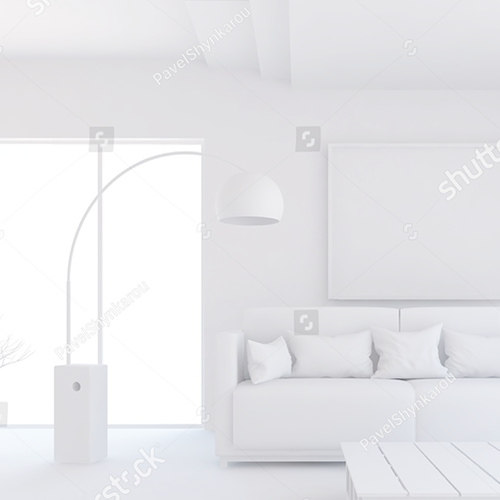
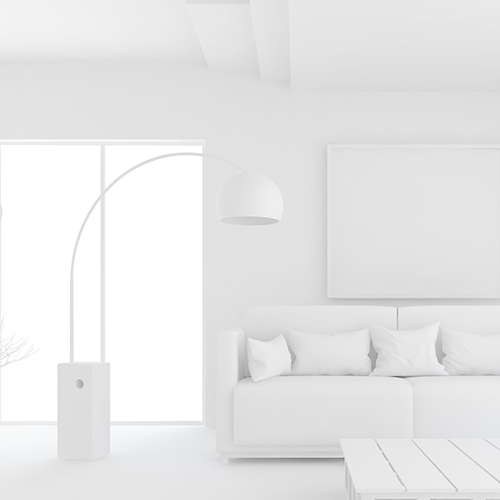
service page translation

diff --git a/krausberg_website/templates/service-6.html b/krausberg_website/templates/service-6.html
@@ -46,22 +46,11 @@
             <div class="row service-text-row">
                 <div class="col-md-12">
                     <p class="service-heading light-green">{% trans "Kulutarvikud (tellimine, asendamine)" %}</p>
-                    <strong class="service-text dark-green">{% trans "Krausberg pakub teenust erinevatel müügipindadel kõigis eesti suurimates kaubanduskeskustes" %}.</strong>
-                    <p class="service-text dark-green">{% trans "Müügipindade puhastustööde hulka kuuluvad tüüpiliselt" %}: </p>
-                    <ul class="service-text dark-green">
-                        <li>{% trans "Riiulitelt tolmu pühkimine" %}</li>
-                        <li>{% trans "Toodetelt tolmu pühkimine" %}</li>
-                        <li>{% trans "Dekoratiivelementidelt tolmu pühkimine" %}</li>
-                        <li>{% trans "Muudelt horisontaalpindadelt tolmu pühkimine" %}</li>
-                        <li>{% trans "Klaaspindade kohtpuhastus" %}</li>
-                        <li>{% trans "Põrandate puhastus masinaga või käsitsi olenevalt mahust" %}</li>
-                    </ul>
-                    <p class="service-text dark-green">{% trans "Vajadusel lisatööd" %}</p>
-
+                    {% trans "teenus kulutarvikud (tellimine, asendamine) tekst" %}
                 </div>
             </div>
         </div>
-        <div class="col-md-6" style="background-image: url('{% static 'img/Teenuse_pilt_1.png'%}');">
+        <div class="col-md-6" style="background-image: url('{% static 'img/1_13- kulutarvikud.jpg'%}'); background-size: contain; background-repeat: no-repeat;">
         </div>
     </div>
 </div>

diff --git a/krausberg_website/templates/service-3.html b/krausberg_website/templates/service-3.html
@@ -46,22 +46,11 @@
             <div class="row service-text-row">
                 <div class="col-md-12">
                     <p class="service-heading light-green">{% trans "Koridoride, trepikodade puhastus" %}</p>
-                    <strong class="service-text dark-green">{% trans "Krausberg pakub teenust erinevatel müügipindadel kõigis eesti suurimates kaubanduskeskustes" %}.</strong>
-                    <p class="service-text dark-green">{% trans "Müügipindade puhastustööde hulka kuuluvad tüüpiliselt" %}: </p>
-                    <ul class="service-text dark-green">
-                        <li>{% trans "Riiulitelt tolmu pühkimine" %}</li>
-                        <li>{% trans "Toodetelt tolmu pühkimine" %}</li>
-                        <li>{% trans "Dekoratiivelementidelt tolmu pühkimine" %}</li>
-                        <li>{% trans "Muudelt horisontaalpindadelt tolmu pühkimine" %}</li>
-                        <li>{% trans "Klaaspindade kohtpuhastus" %}</li>
-                        <li>{% trans "Põrandate puhastus masinaga või käsitsi olenevalt mahust" %}</li>
-                    </ul>
-                    <p class="service-text dark-green">{% trans "Vajadusel lisatööd" %}</p>
-
+                    {% trans "teenus koridoride, trepikodade puhastus tekst" %}
                 </div>
             </div>
         </div>
-        <div class="col-md-6" style="background-image: url('{% static 'img/Teenuse_pilt_1.png'%}');">
+        <div class="col-md-6" style="background-image: url('{% static 'img/1_02-trepikodade puhastus.jpg'%}'); background-size: contain; background-repeat: no-repeat;">
         </div>
     </div>
 </div>

diff --git a/krausberg_website/templates/service-10.html b/krausberg_website/templates/service-10.html
@@ -46,22 +46,11 @@
             <div class="row service-text-row">
                 <div class="col-md-12">
                     <p class="service-heading light-green">{% trans "Pehme mööbli süvapuhastus" %}</p>
-                    <strong class="service-text dark-green">{% trans "Krausberg pakub teenust erinevatel müügipindadel kõigis eesti suurimates kaubanduskeskustes" %}.</strong>
-                    <p class="service-text dark-green">{% trans "Müügipindade puhastustööde hulka kuuluvad tüüpiliselt" %}: </p>
-                    <ul class="service-text dark-green">
-                        <li>{% trans "Riiulitelt tolmu pühkimine" %}</li>
-                        <li>{% trans "Toodetelt tolmu pühkimine" %}</li>
-                        <li>{% trans "Dekoratiivelementidelt tolmu pühkimine" %}</li>
-                        <li>{% trans "Muudelt horisontaalpindadelt tolmu pühkimine" %}</li>
-                        <li>{% trans "Klaaspindade kohtpuhastus" %}</li>
-                        <li>{% trans "Põrandate puhastus masinaga või käsitsi olenevalt mahust" %}</li>
-                    </ul>
-                    <p class="service-text dark-green">{% trans "Vajadusel lisatööd" %}</p>
-
+                    {% trans "teenus pehme mööbli süvapuhastus tekst" %}
                 </div>
             </div>
         </div>
-        <div class="col-md-6" style="background-image: url('{% static 'img/Teenuse_pilt_1.png'%}');">
+        <div class="col-md-6" style="background-image: url('{% static 'img/1_06-pehme mööbli puhastus.jpg'%}'); background-size: contain; background-repeat: no-repeat;">
         </div>
     </div>
 </div>

diff --git a/krausberg_website/templates/service-4.html b/krausberg_website/templates/service-4.html
@@ -46,22 +46,11 @@
             <div class="row service-text-row">
                 <div class="col-md-12">
                     <p class="service-heading light-green">{% trans "Müügipindade puhastus" %}</p>
-                    <strong class="service-text dark-green">{% trans "Krausberg pakub teenust erinevatel müügipindadel kõigis eesti suurimates kaubanduskeskustes" %}.</strong>
-                    <p class="service-text dark-green">{% trans "Müügipindade puhastustööde hulka kuuluvad tüüpiliselt" %}: </p>
-                    <ul class="service-text dark-green">
-                        <li>{% trans "Riiulitelt tolmu pühkimine" %}</li>
-                        <li>{% trans "Toodetelt tolmu pühkimine" %}</li>
-                        <li>{% trans "Dekoratiivelementidelt tolmu pühkimine" %}</li>
-                        <li>{% trans "Muudelt horisontaalpindadelt tolmu pühkimine" %}</li>
-                        <li>{% trans "Klaaspindade kohtpuhastus" %}</li>
-                        <li>{% trans "Põrandate puhastus masinaga või käsitsi olenevalt mahust" %}</li>
-                    </ul>
-                    <p class="service-text dark-green">{% trans "Vajadusel lisatööd" %}</p>
-
+                    {% trans "teenus müügipindade puhastus tekst" %}
                 </div>
             </div>
         </div>
-        <div class="col-md-6" style="background-image: url('{% static 'img/Teenuse_pilt_1.png'%}');">
+        <div class="col-md-6" style="background-image: url('{% static 'img/1_15_müügipindande koristus.jpg'%}'); background-size: contain; background-repeat: no-repeat;">
         </div>
     </div>
 </div>

diff --git a/krausberg_website/templates/service-13.html b/krausberg_website/templates/service-13.html
@@ -46,22 +46,11 @@
             <div class="row service-text-row">
                 <div class="col-md-12">
                     <p class="service-heading light-green">{% trans "Ehistusjärgne puhastus" %}</p>
-                    <strong class="service-text dark-green">{% trans "Krausberg pakub teenust erinevatel müügipindadel kõigis eesti suurimates kaubanduskeskustes" %}.</strong>
-                    <p class="service-text dark-green">{% trans "Müügipindade puhastustööde hulka kuuluvad tüüpiliselt" %}: </p>
-                    <ul class="service-text dark-green">
-                        <li>{% trans "Riiulitelt tolmu pühkimine" %}</li>
-                        <li>{% trans "Toodetelt tolmu pühkimine" %}</li>
-                        <li>{% trans "Dekoratiivelementidelt tolmu pühkimine" %}</li>
-                        <li>{% trans "Muudelt horisontaalpindadelt tolmu pühkimine" %}</li>
-                        <li>{% trans "Klaaspindade kohtpuhastus" %}</li>
-                        <li>{% trans "Põrandate puhastus masinaga või käsitsi olenevalt mahust" %}</li>
-                    </ul>
-                    <p class="service-text dark-green">{% trans "Vajadusel lisatööd" %}</p>
-
+                    {% trans "teenus ehistusjärgne puhastus tekst" %}
                 </div>
             </div>
         </div>
-        <div class="col-md-6" style="background-image: url('{% static 'img/Teenuse_pilt_1.png'%}');">
+        <div class="col-md-6" style="background-image: url('{% static 'img/1_16-ehitusjärgne koristus.jpg'%}'); background-size: contain; background-repeat: no-repeat;">
         </div>
     </div>
 </div>

diff --git a/krausberg_website/templates/service-16.html b/krausberg_website/templates/service-16.html
@@ -46,22 +46,11 @@
             <div class="row service-text-row">
                 <div class="col-md-12">
                     <p class="service-heading light-green">{% trans "Talvine välikoristus" %}</p>
-                    <strong class="service-text dark-green">{% trans "Krausberg pakub teenust erinevatel müügipindadel kõigis eesti suurimates kaubanduskeskustes" %}.</strong>
-                    <p class="service-text dark-green">{% trans "Müügipindade puhastustööde hulka kuuluvad tüüpiliselt" %}: </p>
-                    <ul class="service-text dark-green">
-                        <li>{% trans "Riiulitelt tolmu pühkimine" %}</li>
-                        <li>{% trans "Toodetelt tolmu pühkimine" %}</li>
-                        <li>{% trans "Dekoratiivelementidelt tolmu pühkimine" %}</li>
-                        <li>{% trans "Muudelt horisontaalpindadelt tolmu pühkimine" %}</li>
-                        <li>{% trans "Klaaspindade kohtpuhastus" %}</li>
-                        <li>{% trans "Põrandate puhastus masinaga või käsitsi olenevalt mahust" %}</li>
-                    </ul>
-                    <p class="service-text dark-green">{% trans "Vajadusel lisatööd" %}</p>
-
+                    {% trans "teenus talvine välikoristus tekst" %}
                 </div>
             </div>
         </div>
-        <div class="col-md-6" style="background-image: url('{% static 'img/Teenuse_pilt_1.png'%}');">
+        <div class="col-md-6" style="background-image: url('{% static 'img/1-09- tavine välikoristus.jpg'%}'); background-size: contain; background-repeat: no-repeat;">
         </div>
     </div>
 </div>

diff --git a/krausberg_website/templates/service-14.html b/krausberg_website/templates/service-14.html
@@ -46,22 +46,11 @@
             <div class="row service-text-row">
                 <div class="col-md-12">
                     <p class="service-heading light-green">{% trans "Graffiti eemaldamine" %}</p>
-                    <strong class="service-text dark-green">{% trans "Krausberg pakub teenust erinevatel müügipindadel kõigis eesti suurimates kaubanduskeskustes" %}.</strong>
-                    <p class="service-text dark-green">{% trans "Müügipindade puhastustööde hulka kuuluvad tüüpiliselt" %}: </p>
-                    <ul class="service-text dark-green">
-                        <li>{% trans "Riiulitelt tolmu pühkimine" %}</li>
-                        <li>{% trans "Toodetelt tolmu pühkimine" %}</li>
-                        <li>{% trans "Dekoratiivelementidelt tolmu pühkimine" %}</li>
-                        <li>{% trans "Muudelt horisontaalpindadelt tolmu pühkimine" %}</li>
-                        <li>{% trans "Klaaspindade kohtpuhastus" %}</li>
-                        <li>{% trans "Põrandate puhastus masinaga või käsitsi olenevalt mahust" %}</li>
-                    </ul>
-                    <p class="service-text dark-green">{% trans "Vajadusel lisatööd" %}</p>
-
+                    {% trans "teenus graffiti eemaldamine tekst" %}
                 </div>
             </div>
         </div>
-        <div class="col-md-6" style="background-image: url('{% static 'img/Teenuse_pilt_1.png'%}');">
+        <div class="col-md-6" style="background-image: url('{% static 'img/1-05- graffiti eemaldamine.jpg'%}'); background-size: contain; background-repeat: no-repeat;">
         </div>
     </div>
 </div>

diff --git a/krausberg_website/templates/service-15.html b/krausberg_website/templates/service-15.html
@@ -46,22 +46,11 @@
             <div class="row service-text-row">
                 <div class="col-md-12">
                     <p class="service-heading light-green">{% trans "Suvine välikoristus" %}</p>
-                    <strong class="service-text dark-green">{% trans "Krausberg pakub teenust erinevatel müügipindadel kõigis eesti suurimates kaubanduskeskustes" %}.</strong>
-                    <p class="service-text dark-green">{% trans "Müügipindade puhastustööde hulka kuuluvad tüüpiliselt" %}: </p>
-                    <ul class="service-text dark-green">
-                        <li>{% trans "Riiulitelt tolmu pühkimine" %}</li>
-                        <li>{% trans "Toodetelt tolmu pühkimine" %}</li>
-                        <li>{% trans "Dekoratiivelementidelt tolmu pühkimine" %}</li>
-                        <li>{% trans "Muudelt horisontaalpindadelt tolmu pühkimine" %}</li>
-                        <li>{% trans "Klaaspindade kohtpuhastus" %}</li>
-                        <li>{% trans "Põrandate puhastus masinaga või käsitsi olenevalt mahust" %}</li>
-                    </ul>
-                    <p class="service-text dark-green">{% trans "Vajadusel lisatööd" %}</p>
-
+                    {% trans "teenus suvine välikoristus tekst" %}
                 </div>
             </div>
         </div>
-        <div class="col-md-6" style="background-image: url('{% static 'img/Teenuse_pilt_1.png'%}');">
+        <div class="col-md-6" style="background-image: url('{% static 'img/1-10- Suvine välikoristus.jpg'%}'); background-size: contain; background-repeat: no-repeat;">
         </div>
     </div>
 </div>

diff --git a/krausberg_website/templates/service-7.html b/krausberg_website/templates/service-7.html
@@ -46,22 +46,11 @@
             <div class="row service-text-row">
                 <div class="col-md-12">
                     <p class="service-heading light-green">{% trans "Põrandakatte hooldus" %}</p>
-                    <strong class="service-text dark-green">{% trans "Krausberg pakub teenust erinevatel müügipindadel kõigis eesti suurimates kaubanduskeskustes" %}.</strong>
-                    <p class="service-text dark-green">{% trans "Müügipindade puhastustööde hulka kuuluvad tüüpiliselt" %}: </p>
-                    <ul class="service-text dark-green">
-                        <li>{% trans "Riiulitelt tolmu pühkimine" %}</li>
-                        <li>{% trans "Toodetelt tolmu pühkimine" %}</li>
-                        <li>{% trans "Dekoratiivelementidelt tolmu pühkimine" %}</li>
-                        <li>{% trans "Muudelt horisontaalpindadelt tolmu pühkimine" %}</li>
-                        <li>{% trans "Klaaspindade kohtpuhastus" %}</li>
-                        <li>{% trans "Põrandate puhastus masinaga või käsitsi olenevalt mahust" %}</li>
-                    </ul>
-                    <p class="service-text dark-green">{% trans "Vajadusel lisatööd" %}</p>
-
+                    {% trans "teenus põrandakatte hooldus tekst" %}
                 </div>
             </div>
         </div>
-        <div class="col-md-6" style="background-image: url('{% static 'img/Teenuse_pilt_1.png'%}');">
+        <div class="col-md-6" style="background-image: url('{% static 'img/1_04- põrandate hooldus.jpg'%}'); background-size: contain; background-repeat: no-repeat;">
         </div>
     </div>
 </div>

diff --git a/krausberg_website/templates/service-9.html b/krausberg_website/templates/service-9.html
@@ -46,22 +46,11 @@
             <div class="row service-text-row">
                 <div class="col-md-12">
                     <p class="service-heading light-green">{% trans "Vaipade süvapuhastus" %}</p>
-                    <strong class="service-text dark-green">{% trans "Krausberg pakub teenust erinevatel müügipindadel kõigis eesti suurimates kaubanduskeskustes" %}.</strong>
-                    <p class="service-text dark-green">{% trans "Müügipindade puhastustööde hulka kuuluvad tüüpiliselt" %}: </p>
-                    <ul class="service-text dark-green">
-                        <li>{% trans "Riiulitelt tolmu pühkimine" %}</li>
-                        <li>{% trans "Toodetelt tolmu pühkimine" %}</li>
-                        <li>{% trans "Dekoratiivelementidelt tolmu pühkimine" %}</li>
-                        <li>{% trans "Muudelt horisontaalpindadelt tolmu pühkimine" %}</li>
-                        <li>{% trans "Klaaspindade kohtpuhastus" %}</li>
-                        <li>{% trans "Põrandate puhastus masinaga või käsitsi olenevalt mahust" %}</li>
-                    </ul>
-                    <p class="service-text dark-green">{% trans "Vajadusel lisatööd" %}</p>
-
+                    {% trans "teenus vaipade süvapuhastus tekst" %}
                 </div>
             </div>
         </div>
-        <div class="col-md-6" style="background-image: url('{% static 'img/Teenuse_pilt_1.png'%}');">
+        <div class="col-md-6" style="background-image: url('{% static 'img/1_04- põrandate hooldus.jpg'%}'); background-size: contain; background-repeat: no-repeat;">
         </div>
     </div>
 </div>

diff --git a/krausberg_website/templates/service-2.html b/krausberg_website/templates/service-2.html
@@ -46,22 +46,11 @@
             <div class="row service-text-row">
                 <div class="col-md-12">
                     <p class="service-heading light-green">{% trans "LAORUUMIDE PUHASTUS" %}</p>
-                    <strong class="service-text dark-green">{% trans "Krausberg pakub teenust erinevatel müügipindadel kõigis eesti suurimates kaubanduskeskustes" %}.</strong>
-                    <p class="service-text dark-green">{% trans "Müügipindade puhastustööde hulka kuuluvad tüüpiliselt" %}: </p>
-                    <ul class="service-text dark-green">
-                        <li>{% trans "Riiulitelt tolmu pühkimine" %}</li>
-                        <li>{% trans "Toodetelt tolmu pühkimine" %}</li>
-                        <li>{% trans "Dekoratiivelementidelt tolmu pühkimine" %}</li>
-                        <li>{% trans "Muudelt horisontaalpindadelt tolmu pühkimine" %}</li>
-                        <li>{% trans "Klaaspindade kohtpuhastus" %}</li>
-                        <li>{% trans "Põrandate puhastus masinaga või käsitsi olenevalt mahust" %}</li>
-                    </ul>
-                    <p class="service-text dark-green">{% trans "Vajadusel lisatööd" %}</p>
-
+                    {% trans "teenus laoruumide puhastus tekst" %}
                 </div>
             </div>
         </div>
-        <div class="col-md-6" style="background-image: url('{% static 'img/Teenuse_pilt_1.png'%}');">
+        <div class="col-md-6" style="background-image: url('{% static 'img/1_07- laoruumide puhastus.jpg'%}'); background-size: contain; background-repeat: no-repeat;">
         </div>
     </div>
 </div>

diff --git a/krausberg_website/templates/service-1.html b/krausberg_website/templates/service-1.html
@@ -46,22 +46,11 @@
             <div class="row service-text-row">
                 <div class="col-md-12">
                     <p class="service-heading light-green">{% trans "KONTORI PUHASTUS" %}</p>
-                    <strong class="service-text dark-green">{% trans "Krausberg pakub teenust erinevatel müügipindadel kõigis eesti suurimates kaubanduskeskustes" %}.</strong>
-                    <p class="service-text dark-green">{% trans "Müügipindade puhastustööde hulka kuuluvad tüüpiliselt" %}: </p>
-                    <ul class="service-text dark-green">
-                        <li>{% trans "Riiulitelt tolmu pühkimine" %}</li>
-                        <li>{% trans "Toodetelt tolmu pühkimine" %}</li>
-                        <li>{% trans "Dekoratiivelementidelt tolmu pühkimine" %}</li>
-                        <li>{% trans "Muudelt horisontaalpindadelt tolmu pühkimine" %}</li>
-                        <li>{% trans "Klaaspindade kohtpuhastus" %}</li>
-                        <li>{% trans "Põrandate puhastus masinaga või käsitsi olenevalt mahust" %}</li>
-                    </ul>
-                    <p class="service-text dark-green">{% trans "Vajadusel lisatööd" %}</p>
-
+                    {% trans "teenus kontori puhastus tekst" %}
                 </div>
             </div>
         </div>
-        <div class="col-md-6" style="background-image: url('{% static 'img/Teenuse_pilt_1.png'%}');">
+        <div class="col-md-6" style="background-image: url('{% static 'img/1-08- kontori koristus.jpg'%}'); background-size: contain; background-repeat: no-repeat;">
         </div>
     </div>
 </div>
